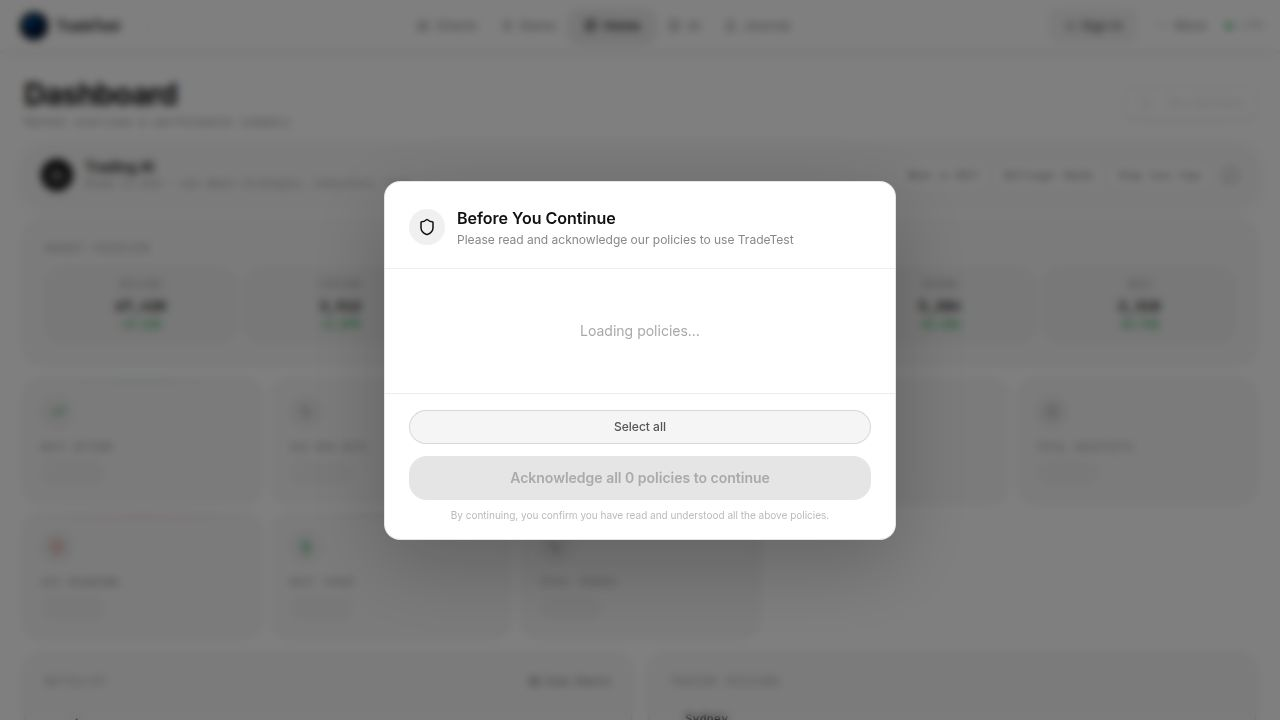
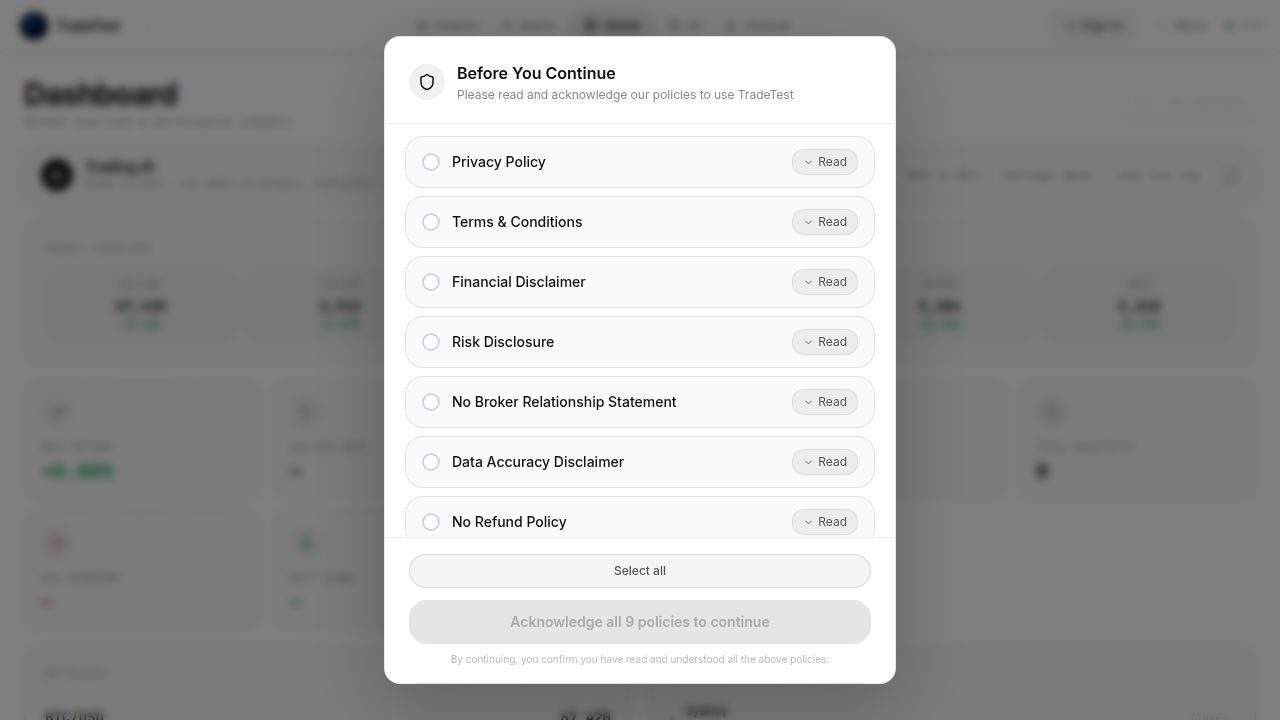
Update configuration to use default port number
Adjust Vite configuration to use a default port of 24593 and a default base path of "/".

Replit-Commit-Author: Agent
Replit-Commit-Session-Id: f23540ce-9596-445c-998d-b972908f114b
Replit-Commit-Checkpoint-Type: full_checkpoint
Replit-Commit-Event-Id: 4d7bb5ce-d1ae-4e19-8680-a34da7935d53
Replit-Commit-Screenshot-Url: https://storage.googleapis.com/screenshot-production-us-central1/271c796f-f2f6-49b2-9648-e962efb78d52/f23540ce-9596-445c-998d-b972908f114b/MqMxNt5
Replit-Helium-Checkpoint-Created: true

diff --git a/artifacts/trade-backtest/vite.config.ts b/artifacts/trade-backtest/vite.config.ts
@@ -4,27 +4,8 @@ import tailwindcss from "@tailwindcss/vite";
 import path from "path";
 import runtimeErrorOverlay from "@replit/vite-plugin-runtime-error-modal";
 
-const rawPort = process.env.PORT;
-
-if (!rawPort) {
-  throw new Error(
-    "PORT environment variable is required but was not provided.",
-  );
-}
-
-const port = Number(rawPort);
-
-if (Number.isNaN(port) || port <= 0) {
-  throw new Error(`Invalid PORT value: "${rawPort}"`);
-}
-
-const basePath = process.env.BASE_PATH;
-
-if (!basePath) {
-  throw new Error(
-    "BASE_PATH environment variable is required but was not provided.",
-  );
-}
+const port = Number(process.env.PORT ?? 24593);
+const basePath = process.env.BASE_PATH ?? "/";
 
 export default defineConfig({
   base: basePath,